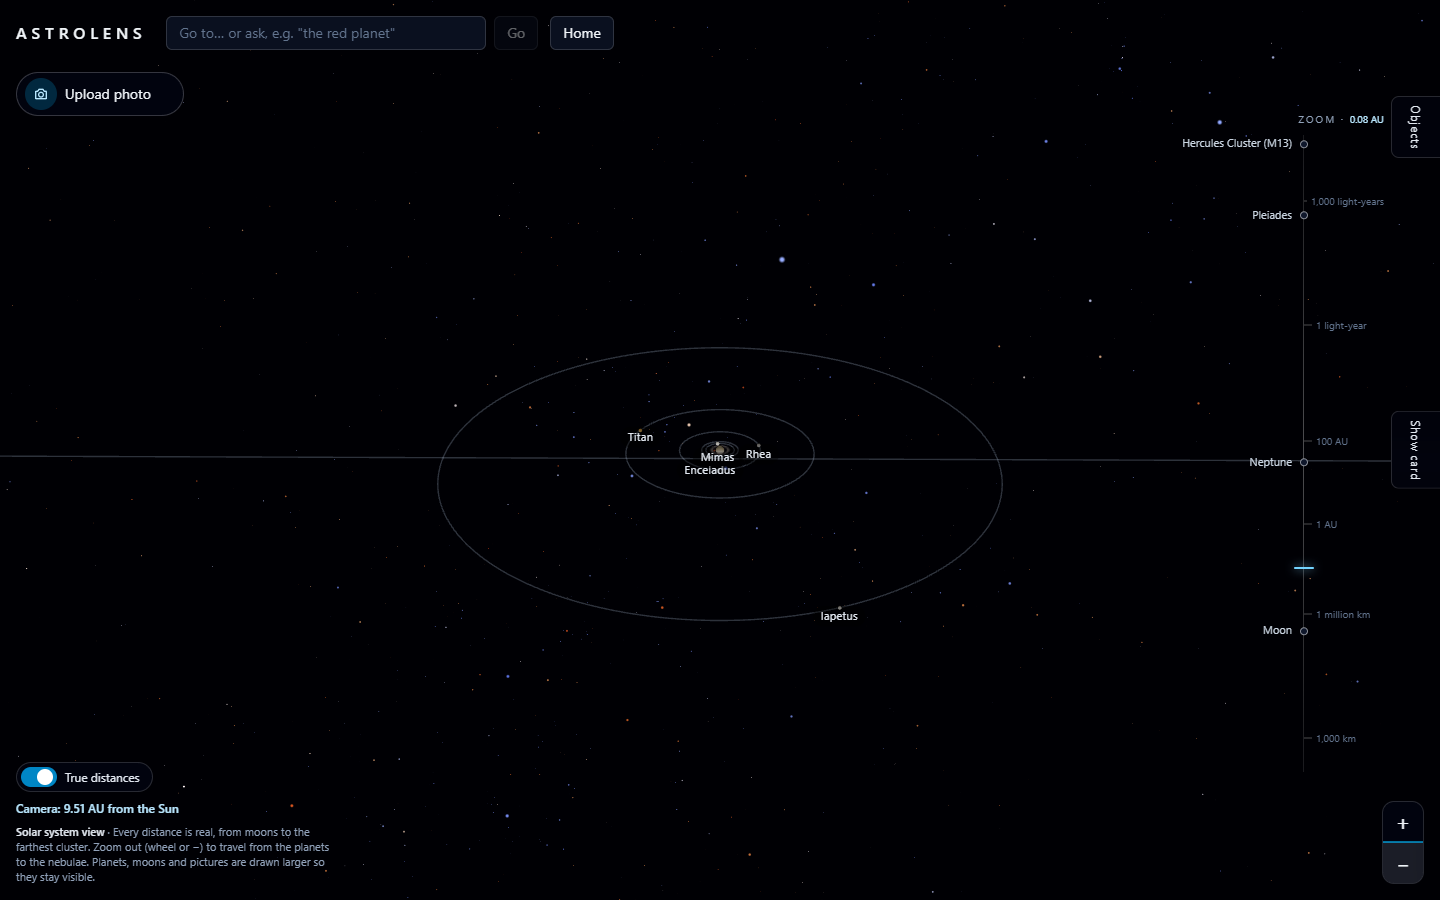
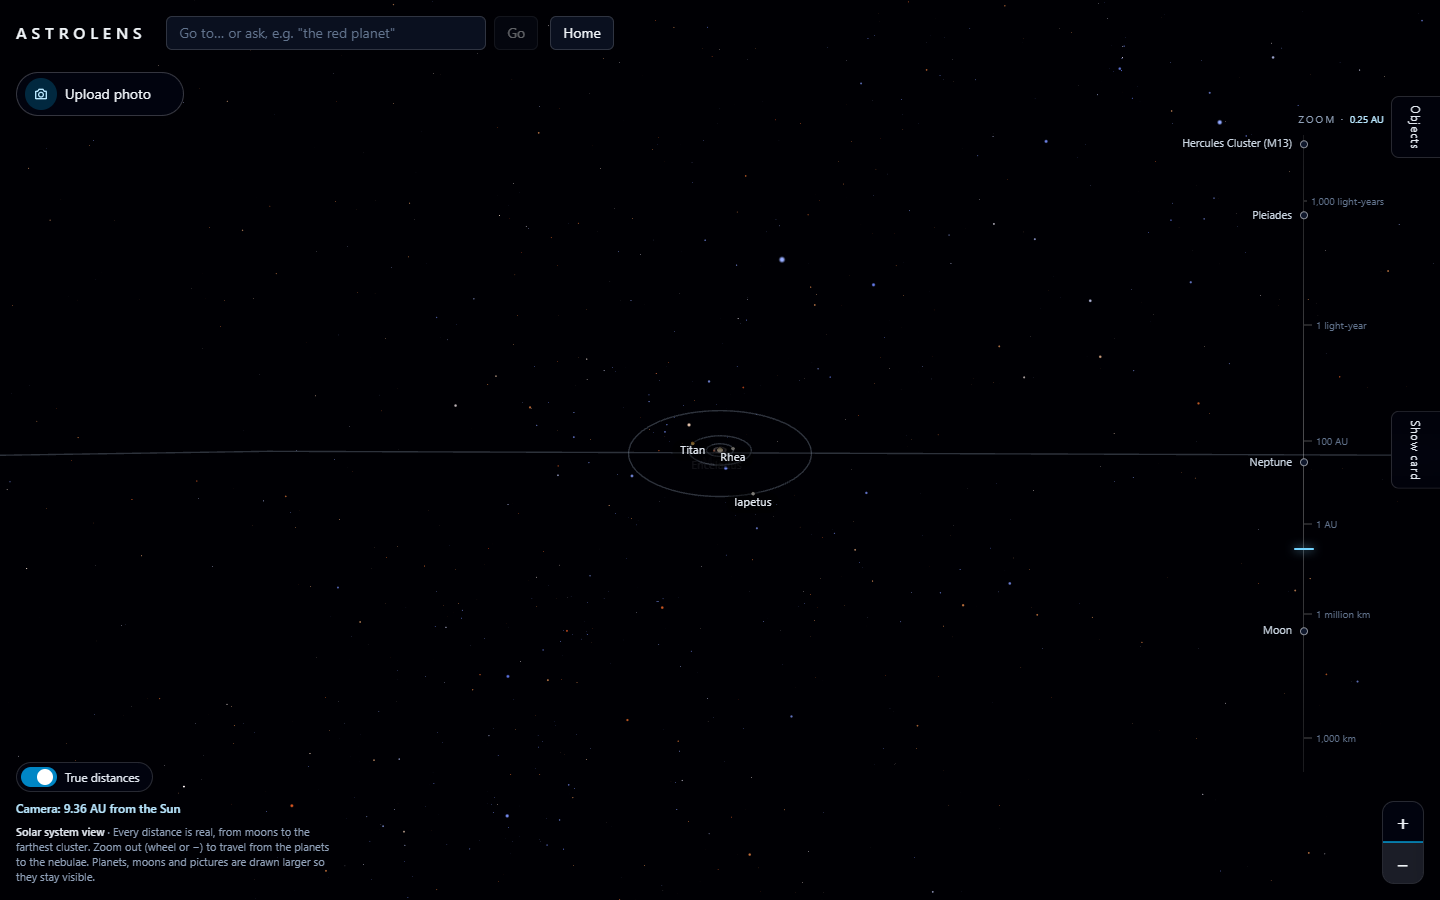
ux: + / - zoom buttons move left of the open glass panel (it covered them); browser check now clicks them with the panel open, 20/20; REPORT updated

diff --git a/frontend/src/ui/ZoomControls.jsx b/frontend/src/ui/ZoomControls.jsx
@@ -7,12 +7,16 @@ const STEP = 3 // each press zooms by 3x
 export default function ZoomControls() {
   const zoomBy = useStore((s) => s.zoomBy)
   const isFlying = useStore((s) => s.isFlying)
+  const panelOpen = useStore((s) => s.panelOpen)
   const button =
     'flex h-10 w-10 items-center justify-center text-xl leading-none text-slate-100 hover:bg-white/10 focus:outline-none focus:ring-2 focus:ring-sky-400/60 disabled:opacity-40'
   return (
     <div
       data-testid="zoom-controls"
-      className="pointer-events-auto absolute bottom-4 right-4 z-20 flex flex-col overflow-hidden rounded-xl border border-white/15 bg-slate-950/50 backdrop-blur-[14px]"
+      // While the glass panel is open, sit just left of it (it would cover the buttons otherwise).
+      className={`pointer-events-auto absolute bottom-4 z-20 flex flex-col overflow-hidden rounded-xl border border-white/15 bg-slate-950/50 backdrop-blur-[14px] transition-[right] duration-500 ease-out ${
+        panelOpen ? 'right-4 sm:right-[calc(max(26%,340px)+1rem)]' : 'right-4'
+      }`}
     >
       <button type="button" data-testid="zoom-in" aria-label="Zoom in" disabled={isFlying} onClick={() => zoomBy(1 / STEP)} className={button}>
         ＋

diff --git a/REPORT.md b/REPORT.md
@@ -493,6 +493,7 @@ recall@k = share of questions with a gold chunk in the first k results; MRR@10 =
 | After 5 | Card numbers count up to the value in `objects.json`; card lines slide in one after another | Done |
 | After 5 | Distance scale (True distances only): power-of-ten ruler with the current zoom and clickable marks for the Moon, Neptune, the Pleiades and M13 | Done |
 | After 5 | All four follow the "reduce motion" setting | Done |
+| After 5 | + / − zoom buttons move left of the glass panel while it is open (it used to cover them) | Done (bug fix) |
 
 **Phase 1 scene check.** Source: `ml/results/phase1_scene_check.json`, written by `node scripts/check-phase1.mjs` (run from `frontend/`). The script opened the page in Microsoft Edge 157 (headless) on the author's laptop, which used the real GPU (NVIDIA GeForce RTX 4060 Laptop GPU, through Direct3D 11). The viewport was 1440 × 900. The script picked each object in the dropdown, alternating Solar System and deep space, so 19 of the 20 flights were mode switches.
 
@@ -557,7 +558,7 @@ The times are on the author's laptop, with the server on the same machine; the d
 
 The first − presses read slightly less than 5.20 AU because zooming out from Jupiter moves the camera back along its line of sight, which here points a little towards the Sun. Landing at the Orion Nebula (1,267 ly away, radius 13 ly in `objects.json`) leaves the camera 4 radii (52 ly) in front of it, on Earth's side: 1,267 − 52 = 1,215.
 
-**Interface motion check (after Phase 5).** Source: `ml/results/ux_check.json`, written by `frontend/scripts/check-ux.mjs` (Playwright driving Microsoft Edge, headless, real GPU, 1440 × 900) against the local page; 18 of 18 checks passed. Screenshots are in `ml/results/ux_screens/`.
+**Interface motion check (after Phase 5).** Source: `ml/results/ux_check.json`, written by `frontend/scripts/check-ux.mjs` (Playwright driving Microsoft Edge, headless, real GPU, 1440 × 900) against the local page; 20 of 20 checks passed. Screenshots are in `ml/results/ux_screens/`.
 
 | Check | Measured |
 | --- | --- |
@@ -565,11 +566,13 @@ The first − presses read slightly less than 5.20 AU because zooming out from J
 | Short flight (Mars → Jupiter, 1.2 s) | warp 0, view not widened |
 | Arrival title at the Orion Nebula | "Orion Nebula", "Diffuse emission nebula · 1,267 light-years away"; gone again after the hold |
 | Arrival line for all 36 objects, compared with the same rule written separately in the check script | 36 of 36 match |
-| Saturn card 0.25 s after choosing it / once settled | "32,022 km", "5.270 AU", "5.80 hours", "161 …" (still counting) / exactly as in `objects.json` |
+| Saturn card 0.25 s after choosing it / once settled | "32,670 km", "5.376 AU", "5.91 hours", "164 …" (still counting) / exactly as in `objects.json` |
 | Distance scale in the normal view | hidden |
-| Distance scale marker vs the zoom, at Saturn / after 3 presses of − | 22.68% vs 22.68% (465,856 km) / 31.98% vs 31.98% (0.08 AU) |
+| Distance scale marker vs the zoom, at Saturn / after 4 presses of − | 22.68% vs 22.68% (465,856 km) / 35.08% vs 35.08% (0.25 AU) |
 | Gap between the scale and the screen's right edge, panel open / closed | 430 px / 56 px (clear of the panel and the edge tabs) |
-| Clicking the Pleiades mark | flew to the Pleiades in 4.6 s, with warp 1 |
+| + / − buttons with the glass panel open: gap from the right edge / one press of − | 390 px (left of the panel) / zoom −2.507 → −2.030 (10^0.477 = 3 times out) |
+| + / − buttons with the panel closed: gap from the right edge | 16 px (back at the edge) |
+| Clicking the Pleiades mark | flew to the Pleiades in 4.45 s, with warp 1 |
 | Reduce motion on: flight to the Orion Nebula / Jupiter card after 0.1 s / arrival title | warp 0 / final values at once / still shown |
 | Browser console errors | 0 |
 
@@ -935,6 +938,6 @@ The first − presses read slightly less than 5.20 AU because zooming out from J
   - Tests: pytest, 56 passed.
 - **Nov 19, 2026 (after Phase 5: interface motion):**
   - Warp-speed flights, the arrival title, counting numbers on the card and the distance scale, all following "reduce motion".
-  - Browser check: 18 of 18 passed with 0 console errors (`ml/results/ux_check.json`, screenshots in `ml/results/ux_screens/`).
-  - Found while checking: the open glass panel covers the + / − zoom buttons (bottom right). Not changed here.
+  - Fixed a bug the check found: the open glass panel covered the + / − zoom buttons (bottom right); they now sit just left of the panel while it is open.
+  - Browser check: 20 of 20 passed with 0 console errors (`ml/results/ux_check.json`, screenshots in `ml/results/ux_screens/`).
   - Tests: pytest, 62 passed.
